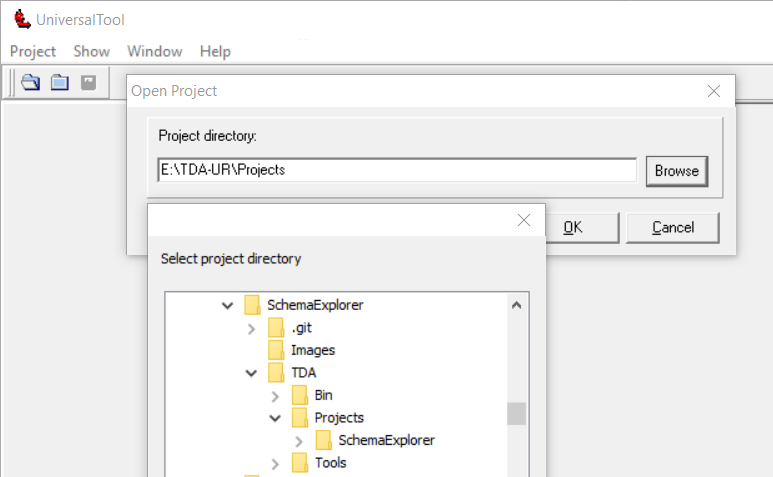
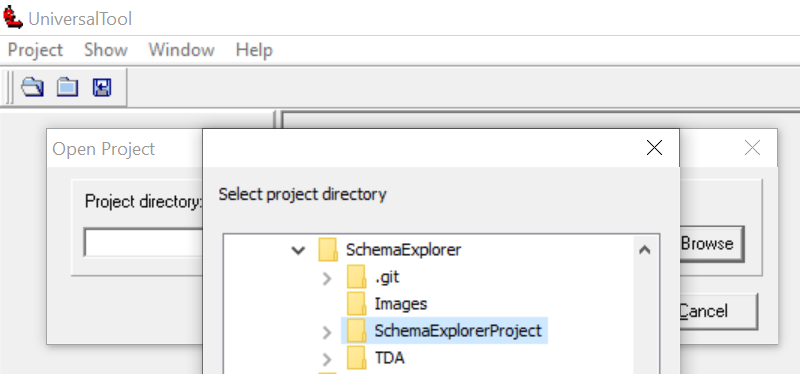
schemas24

Changed region(s): [[0.0, 0.0, 1.0, 1.0], [0.031, 0.4412, 0.0621, 0.9118], [0.3105, 0.9706, 0.3415, 1.0]]

diff --git a/README.md b/README.md
@@ -8,17 +8,13 @@ The **SchemaExplorer** module (as a project under the **TDA tool**) has been dev
 
 The **TDA tool** has been developed at Institute of Mathematics and Computer Science, University of Latvia, https://lumii.lv.
 
-## Examples
-
-Some [schema visualization examples](https://viziquer.lumii.lv/projects/lzp_2021/VisualSchemaSamples.pdf) are available from the [ViziQuer tool](https://viziquer.lumii.lv) site.
-
 ## Installation
 
 1. Perform `git clone`for this repository.
 1. Start the `tda.exe` directly, or create a shortcut for it.
 1. At the first start you may be asked (once or twice) for elevated rights as the tool needs to register an OCX component for graphical diagrams.
 1. On some configurations, it might be necessary to run TDA with administrator privileges at the first start.
-1. Open SchemaExplorer project (`./SchemaExplorer`). The project contains examples of DSS schema visualizations.
+1. Open SchemaExplorer project (`./SchemaExplorerProject`). The project contains examples of DSS schema visualizations.
 
 ![](./Images/TDA_1.PNG)
 
@@ -28,9 +24,11 @@ Some [schema visualization examples](https://viziquer.lumii.lv/projects/lzp_2021
 ## Data preparation
 
 1. Data preparation is done in the **ViziQuer** tool. See https://viziquer.lumii.lv for the tool description.
-1. Export parameters are set in the EXTRA tab in the class tree of the diagram.
-1. Data preparation time depends on the number of classes and properties, the results are two files `data.txt` and `data2.txt`.
-1. These two files should be copied into the TDA project in the Schema Explorer (`./SchemaExplorer`), replacing existing files there.
+1. Export parameters are set in the form.
+1. Data preparation time depends on the number of classes and properties, the results are file `diagr_data.json`.
+1. This file should be copied into the SchemaExplorerProject, replacing existing file there.
+
+![](./Images/VQ_2.PNG)
 
 ![](./Images/VQ_1.PNG)
 
